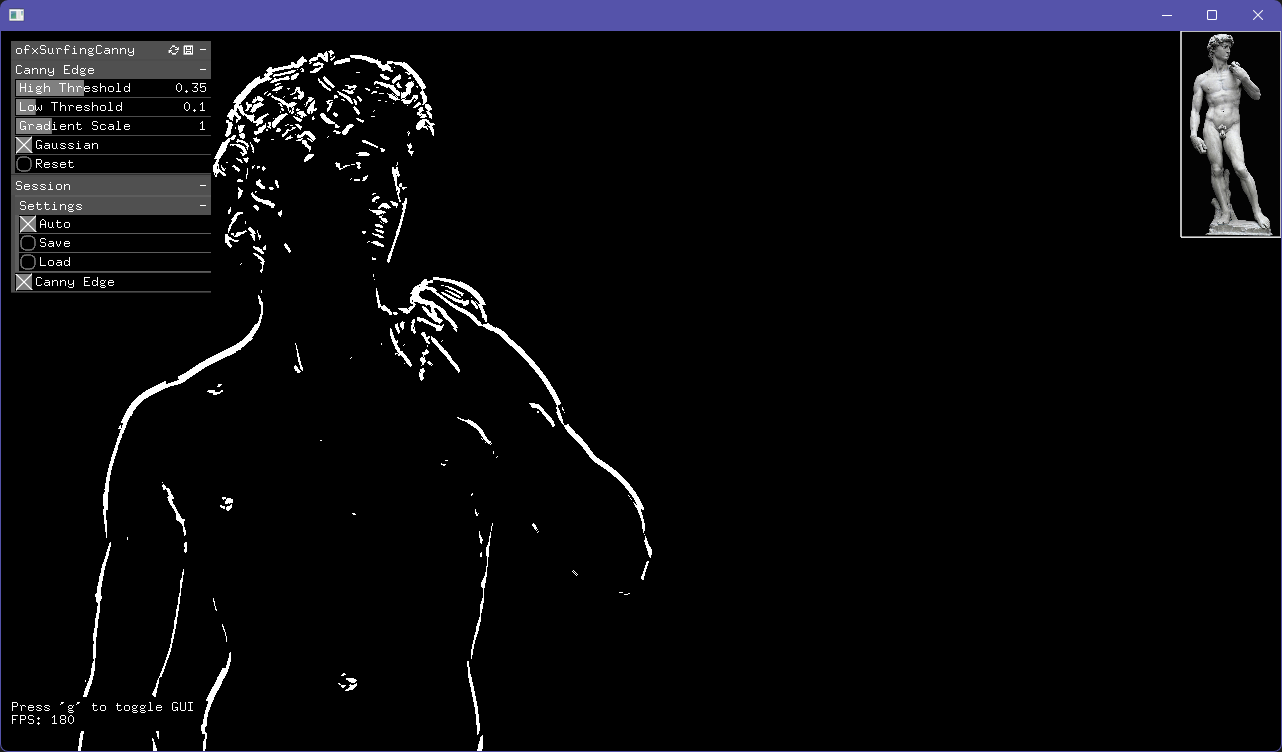
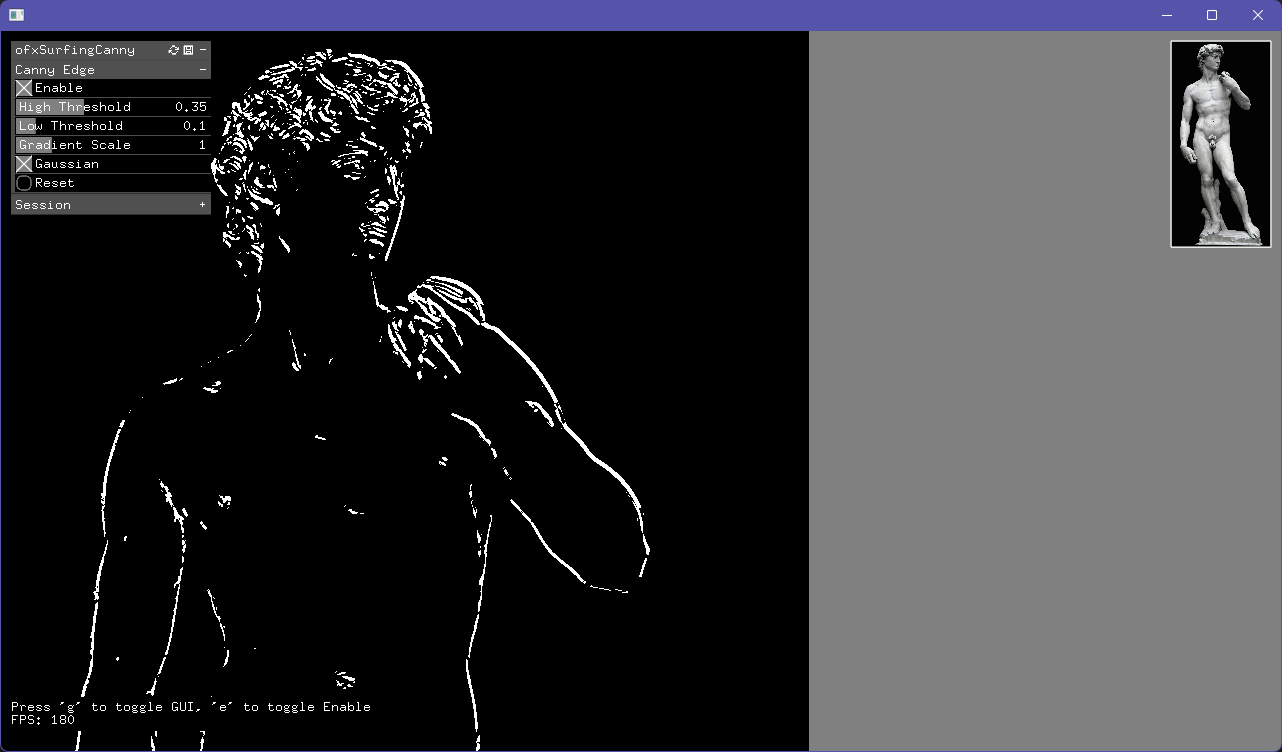
improved API: now using ofFbo to process any texture, bypass/enable, etc

diff --git a/src/ofxSurfingCanny.h b/src/ofxSurfingCanny.h
@@ -207,7 +207,8 @@ private:
 		gui.add(parametersSession);
 
 		auto & g = gui.getGroup(parametersSession.getName());
-		g.minimizeAll();
+		g.getGroup(parametersSettingsManager.getName()).minimize();
+		g.minimize();
 
 		bGui = true;
 	}
@@ -249,7 +250,7 @@ public:
 
 	//----------------------------------
 	void begin() {
-		if (!bEnable) return;
+		//if (!bEnable) return;
 
 		fboInput.begin();
 		ofClear(0, 0, 0, 255);
@@ -257,7 +258,7 @@ public:
 
 	//----------------------------------
 	void end() {
-		if (!bEnable) return;
+		//if (!bEnable) return;
 
 		fboInput.end();
 		texInput = &fboInput.getTexture();
